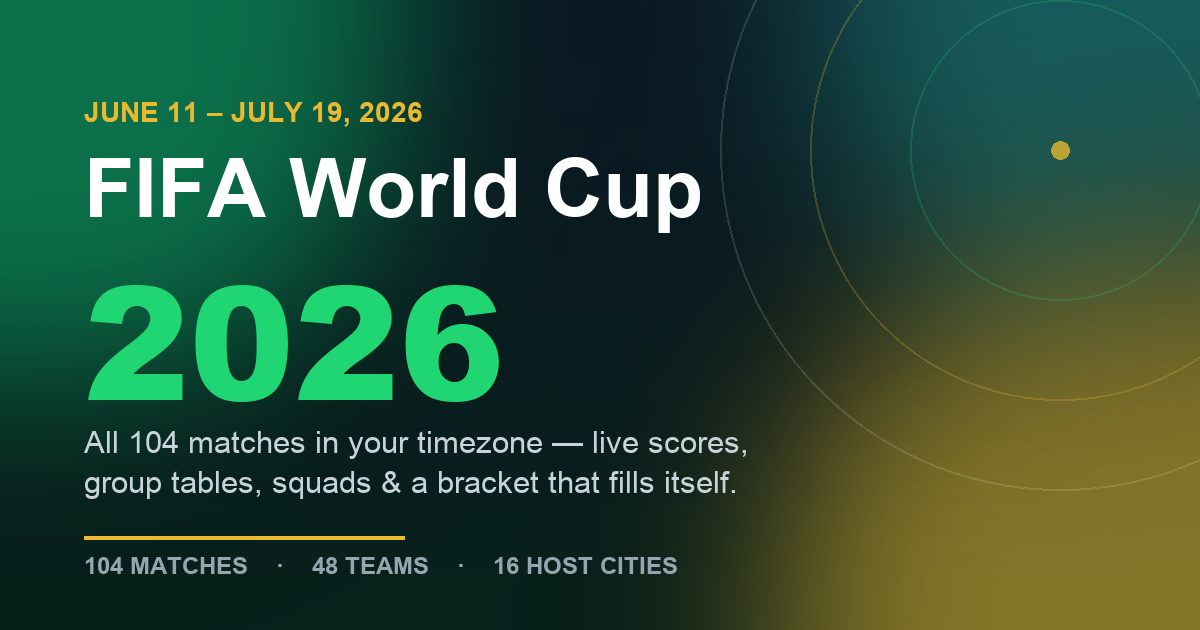
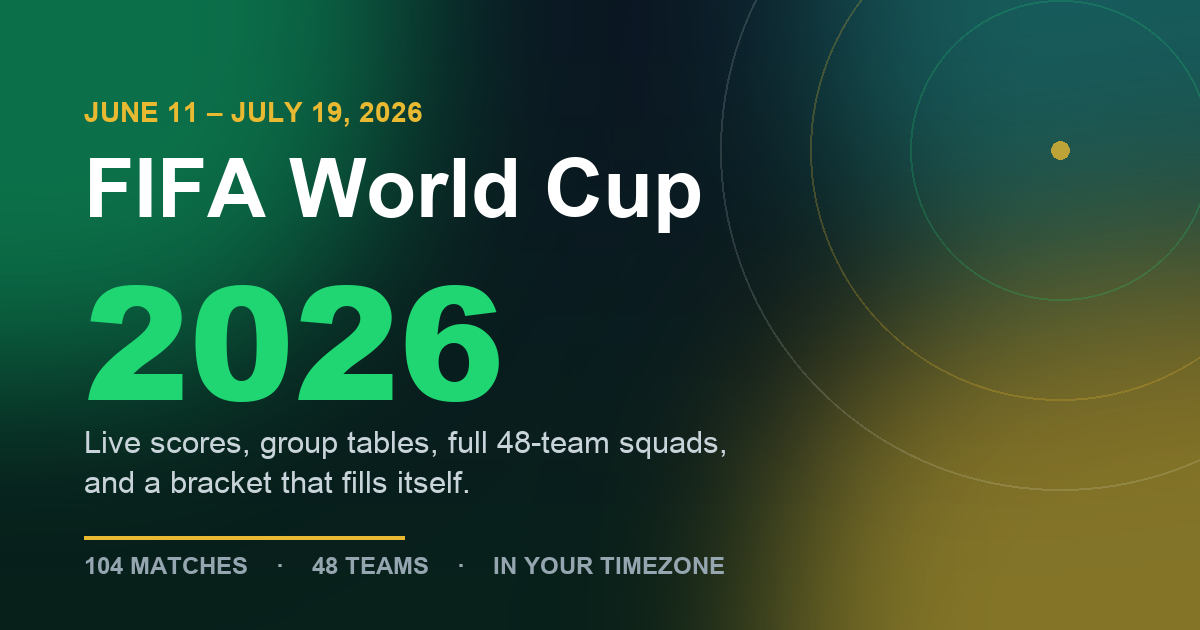
Share card copy: Companion angle, demote timezone
Switched og:title/description and the share card to the 'your companion'
direction; 'in your timezone' moved out of the headline to a small footer
chip on the card. Regenerated assets/og.png; bumped og:image token to v=18
so scrapers re-fetch.

Changed region(s): [[0.0617, 0.6635, 0.6167, 0.7841], [0.4008, 0.8746, 0.6167, 0.9349]]

diff --git a/index.html b/index.html
@@ -4,20 +4,20 @@
 <meta charset="UTF-8">
 <meta name="viewport" content="width=device-width, initial-scale=1.0, viewport-fit=cover">
 <title>FIFA World Cup 2026 — Companion</title>
-<meta name="description" content="Every FIFA World Cup 2026 match in your timezone — live scores, group tables, full squads, and a bracket that fills itself. 104 matches · 48 teams.">
+<meta name="description" content="Your FIFA World Cup 2026 companion — live scores, group tables, full 48-team squads, and a bracket that fills itself. All 104 matches.">
 <meta property="og:type" content="website">
 <meta property="og:site_name" content="FIFA World Cup 2026 Companion">
 <meta property="og:url" content="https://lavyagarg240294.github.io/wc26/">
-<meta property="og:title" content="FIFA World Cup 2026 — every match, your timezone">
-<meta property="og:description" content="Live scores, group tables, full 48-team squads, and a bracket that fills itself. All 104 matches in your timezone.">
-<meta property="og:image" content="https://lavyagarg240294.github.io/wc26/assets/og.png?v=17">
+<meta property="og:title" content="FIFA World Cup 2026 — your companion">
+<meta property="og:description" content="Live scores, group tables, full 48-team squads, and a bracket that fills itself — every match in your timezone.">
+<meta property="og:image" content="https://lavyagarg240294.github.io/wc26/assets/og.png?v=18">
 <meta property="og:image:width" content="1200">
 <meta property="og:image:height" content="630">
 <meta property="og:image:alt" content="FIFA World Cup 2026 companion">
 <meta name="twitter:card" content="summary_large_image">
-<meta name="twitter:title" content="FIFA World Cup 2026 — every match, your timezone">
+<meta name="twitter:title" content="FIFA World Cup 2026 — your companion">
 <meta name="twitter:description" content="Live scores, group tables, full 48-team squads, and a bracket that fills itself.">
-<meta name="twitter:image" content="https://lavyagarg240294.github.io/wc26/assets/og.png?v=17">
+<meta name="twitter:image" content="https://lavyagarg240294.github.io/wc26/assets/og.png?v=18">
 <meta name="theme-color" content="#0BA360">
 <link rel="preconnect" href="https://fonts.googleapis.com">
 <link rel="preconnect" href="https://fonts.gstatic.com" crossorigin>

diff --git a/scripts/make-og.py b/scripts/make-og.py
@@ -41,10 +41,10 @@ d.text((x, 96), "JUNE 11 – JULY 19, 2026", font=f(FB, 28), fill=(232, 185, 49)
 d.text((x, 142), "FIFA World Cup", font=f(FB, 82), fill=(255, 255, 255))
 d.text((x, 226), "2026", font=f(FBL, 158), fill=(31, 214, 115))
 tag = f(FR, 31)
-d.text((x, 424), "All 104 matches in your timezone — live scores,", font=tag, fill=(200, 212, 218))
-d.text((x, 464), "group tables, squads & a bracket that fills itself.", font=tag, fill=(200, 212, 218))
+d.text((x, 424), "Live scores, group tables, full 48-team squads,", font=tag, fill=(200, 212, 218))
+d.text((x, 464), "and a bracket that fills itself.", font=tag, fill=(200, 212, 218))
 d.rectangle([x, 536, x + 320, 539], fill=(232, 185, 49))
-d.text((x, 552), "104 MATCHES    ·    48 TEAMS    ·    16 HOST CITIES", font=f(FB, 24), fill=(150, 166, 176))
+d.text((x, 552), "104 MATCHES    ·    48 TEAMS    ·    IN YOUR TIMEZONE", font=f(FB, 24), fill=(150, 166, 176))
 
 img.save("assets/og.png")
 print("wrote assets/og.png", img.size)
